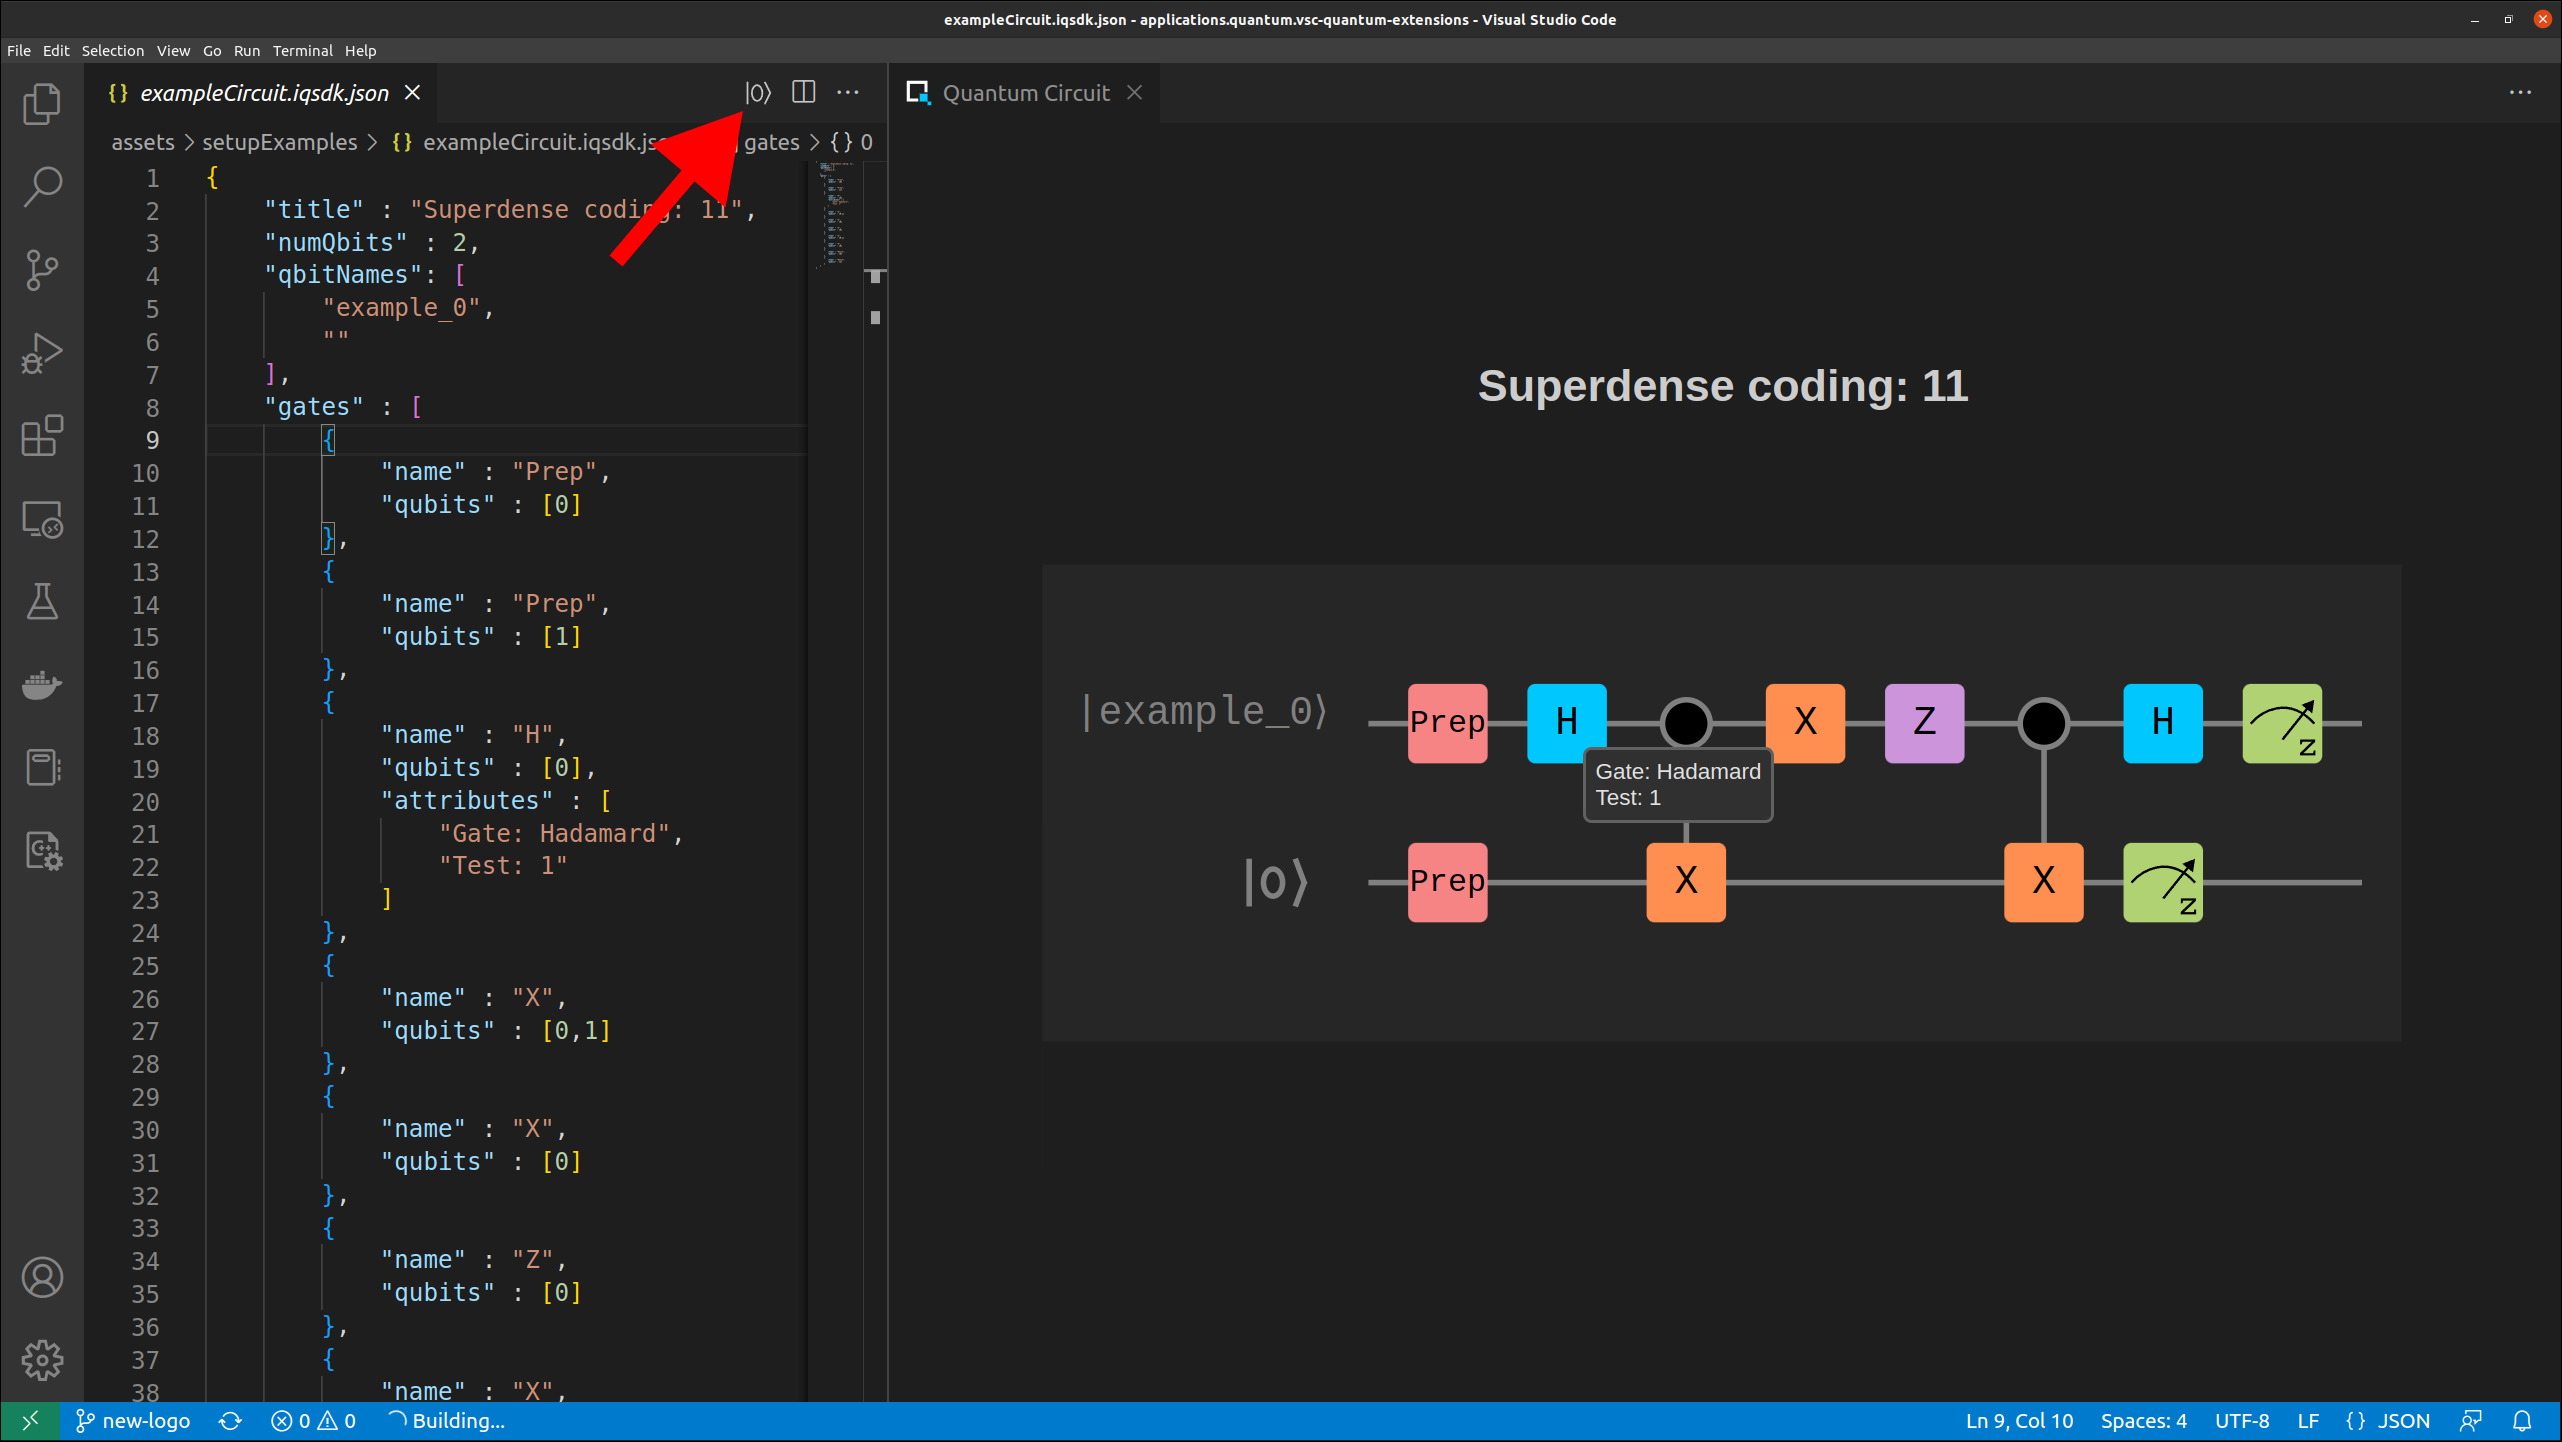
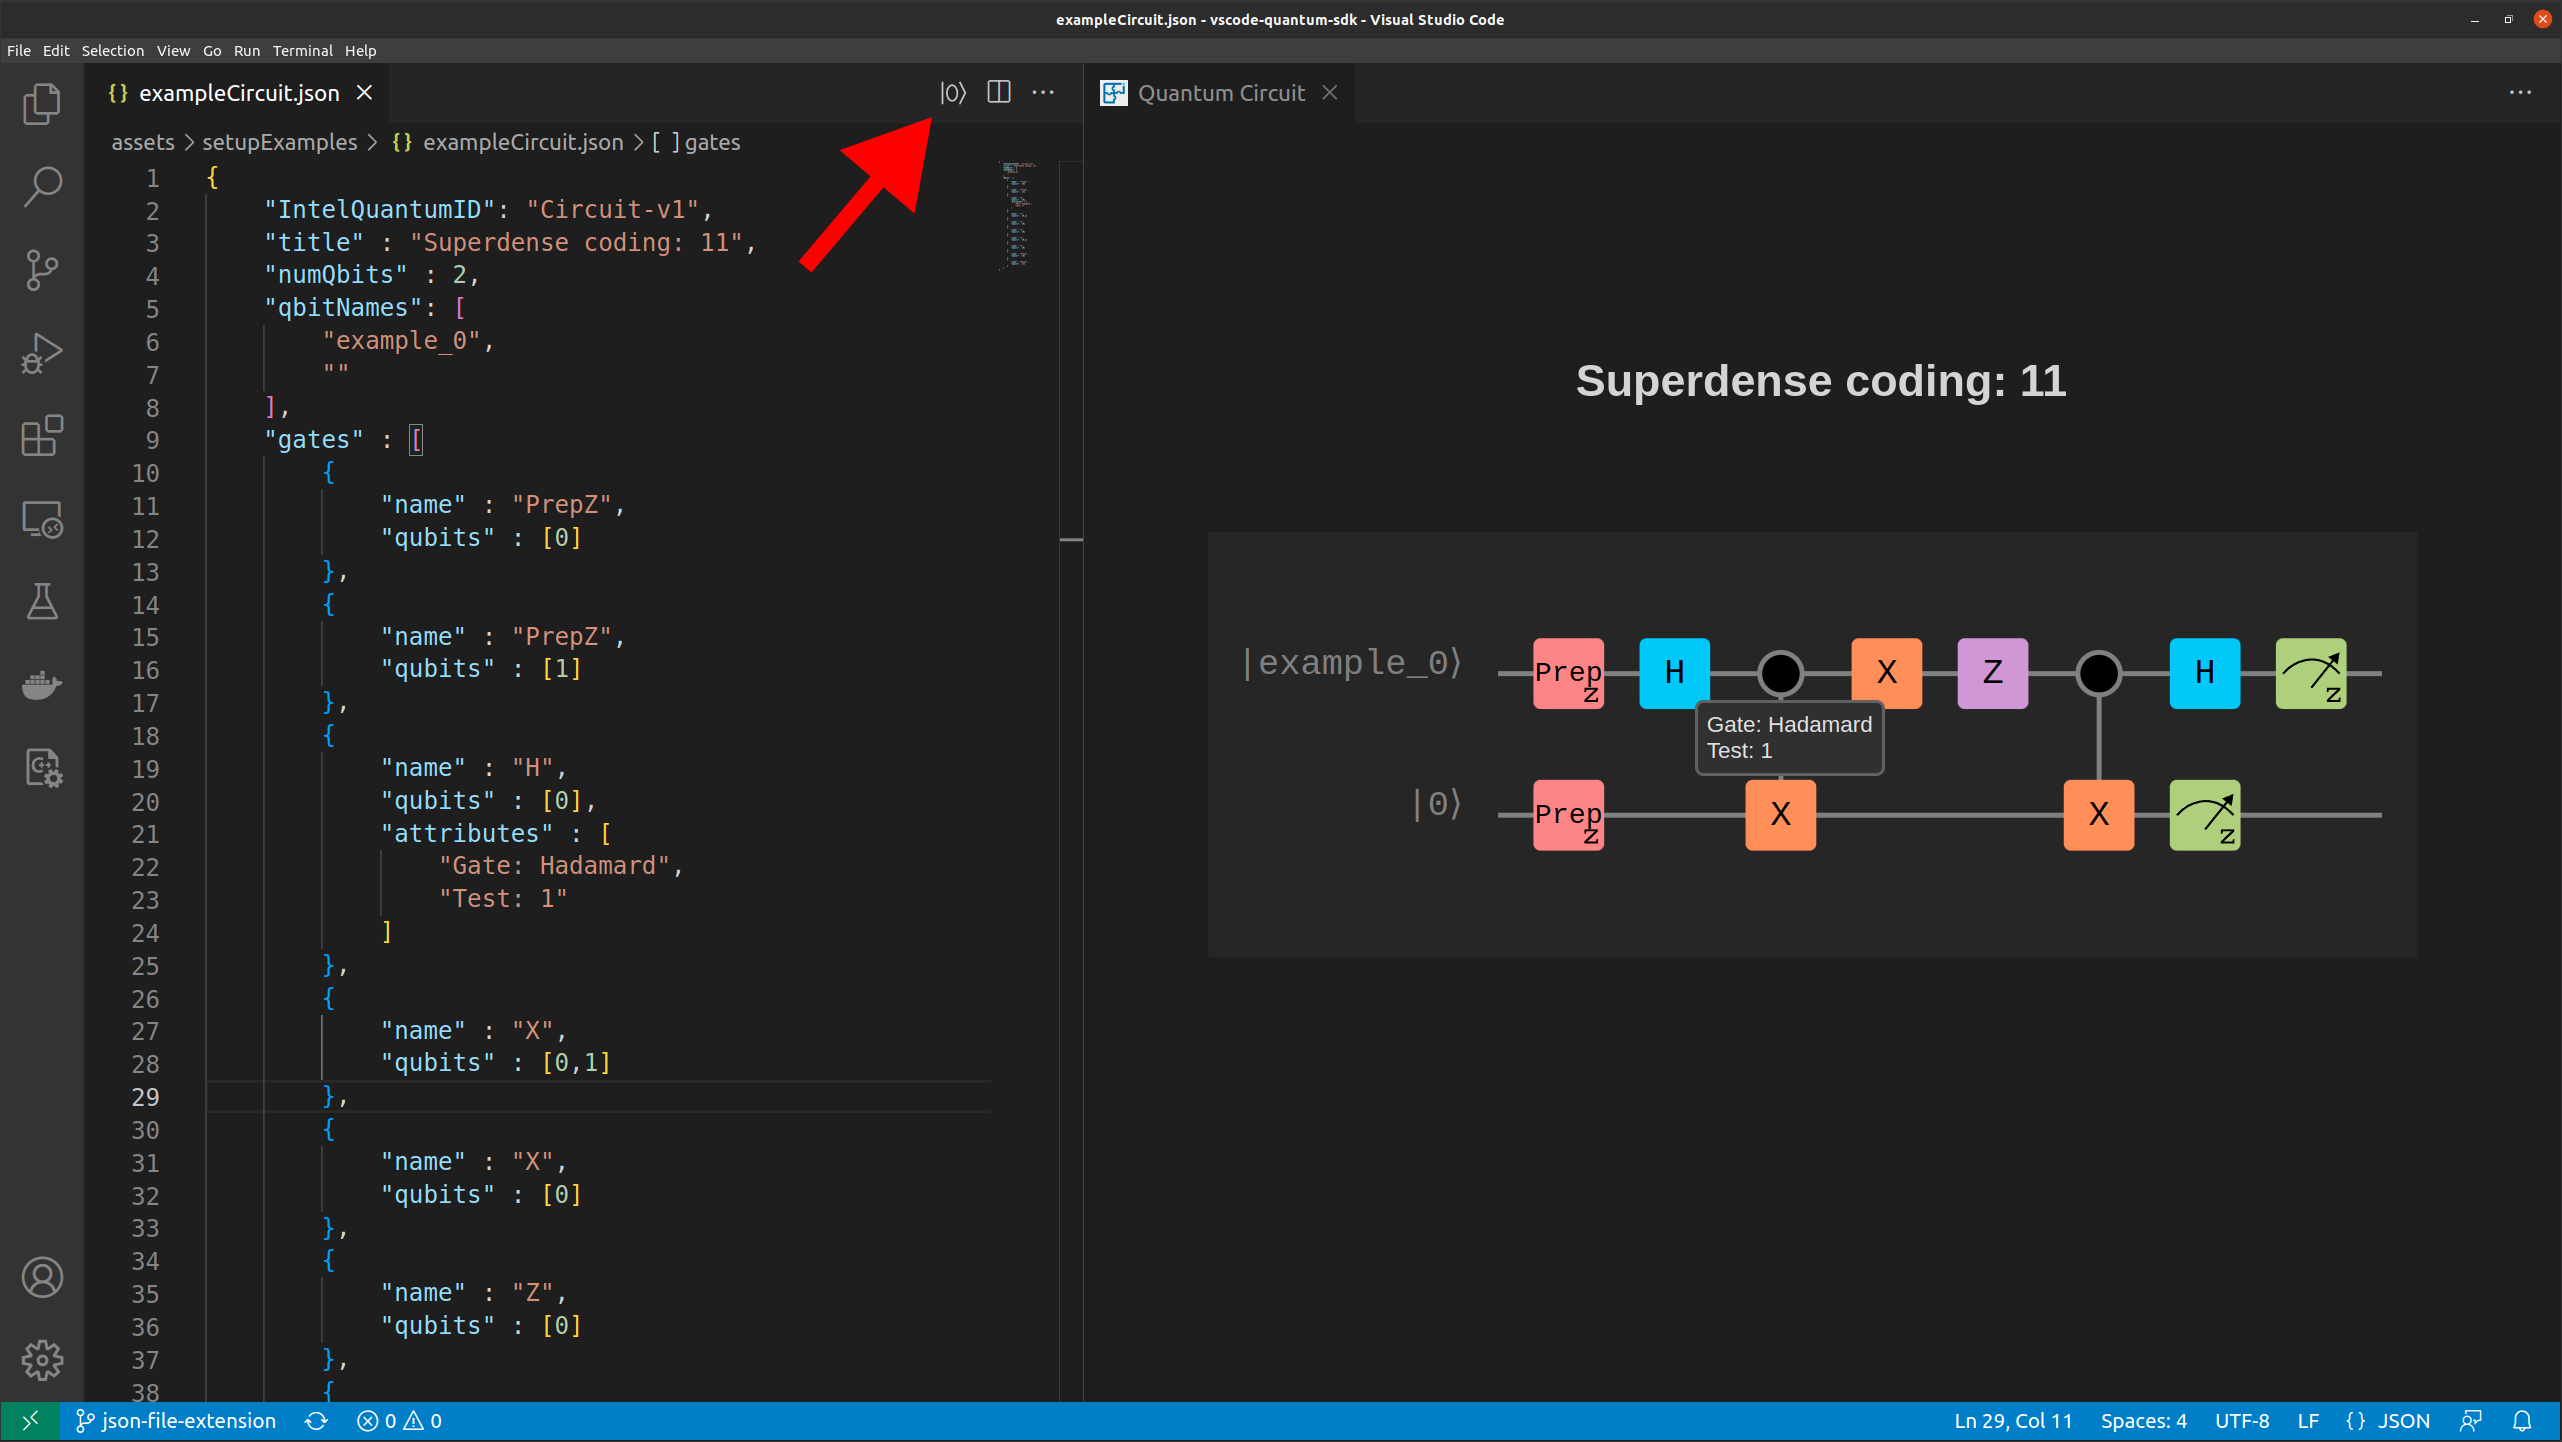
wip

diff --git a/README-Dev.md b/README-Dev.md
@@ -7,14 +7,8 @@ Simply press `F5` to pull up a debugging instance of VS Code with the extension 
 
 Feel free to use `assets/setupExamples/exampleCircuit.json` when debugging
 
-### Install
-Run `make install`
-This command accesses the `.vsix` file to install the extension.
-
-### Remove
-Run `make clean`
-
-The script prompts the user to reload VS Code using the command `CTRL + SHIFT + P -> Reload Window`. When VS Code restarts the extension will be removed.
+### Makefile
+The Makefile includes targets for building, installing and removing the extension.
 
 # Development
 
@@ -31,7 +25,7 @@ This is the main entry point into the extension. In its current state it waits f
 This class handles the creation and updating of the webview. It creates a webview and calls upon functions in `draw.ts` to fill in the contents of the webview.
 
 ### draw.ts
-This file contains the brains of the extension. It's function `drawBoard(qData)` takes the plain text contents of a json file and uses that to create all the components that make up the circuit board svg on the webview. Each of the functions it calls is a seperate layer of the board. All of these layers are stacked on top of each other and returned as a string. This string then becomes the contents of the svg in the webview, completing the image.
+This file contains the brains of the extension. It's function `drawBoard(QData)` takes the contents of a json file in the form of a QData struct and uses that to create all the components that make up the circuit board svg on the webview. Each of the functions it calls is a seperate layer of the board. All of these layers are stacked on top of each other and returned as a string. This string then becomes the contents of the svg in the webview, completing the image.
 
 ### assets
 This folder contains all images, scripts and styling sheets relevant to this project. There are also a number of sample json files that can be used to generate circuit boards.

diff --git a/README.md b/README.md
@@ -15,6 +15,11 @@ Navigate to a valid `json` file that represents a quantum circuit board (Either 
 
 ## Understanding the json
 ``` json 
+"IntelQuantumID": "Circuit-v1",
+```
+Tells the extension that this json represents a quantum circuit board
+
+``` json 
 "title" : "Teleport |1⟩",
 ```
 Sets the title of the circuit board
